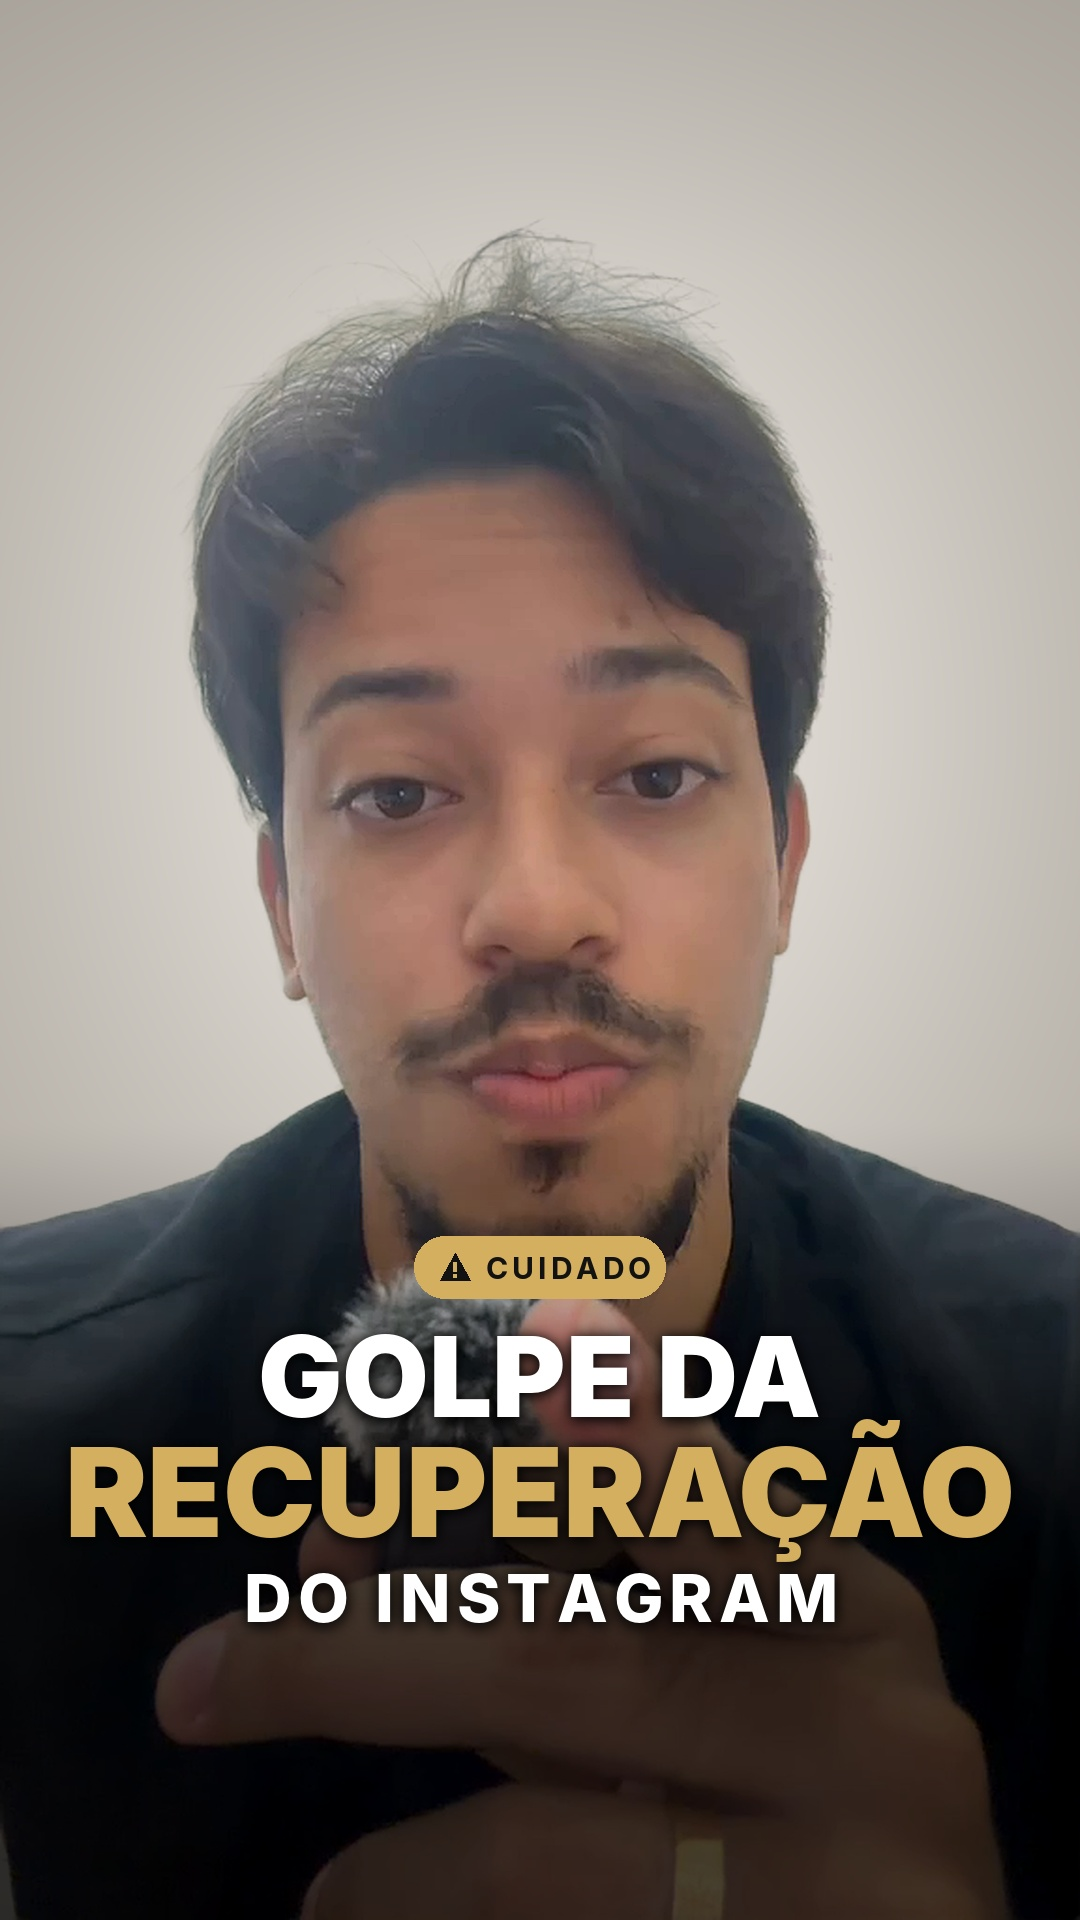
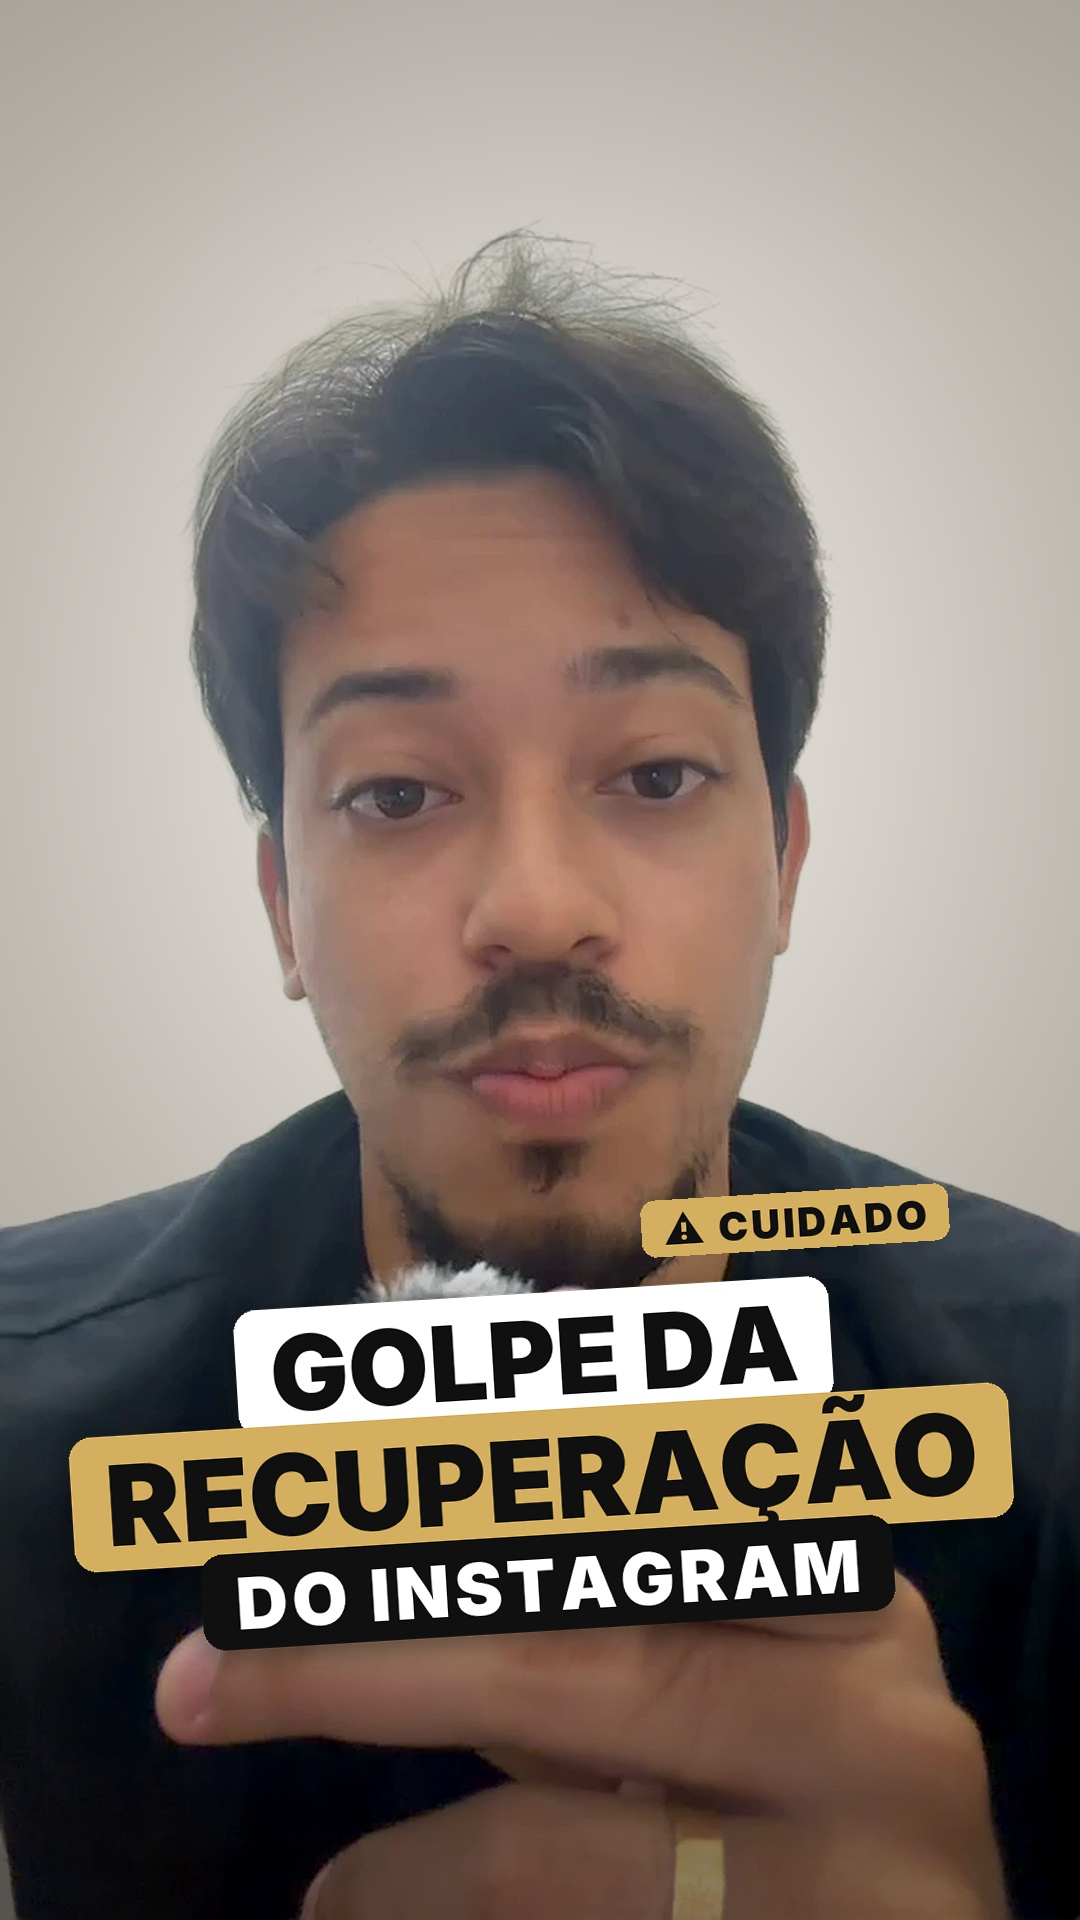
Capa no estilo de capa de Reels (texto em blocos) + versão 3:4 do perfil
Claude-Session: https://claude.ai/code/session_01EBUpDPfBQZoxxSBYNSjZda

Changed region(s): [[0.0, 0.5938, 0.9472, 1.0], [0.0, 0.9688, 0.0306, 1.0]]

diff --git a/edicao_golpe_instagram/cover.py b/edicao_golpe_instagram/cover.py
@@ -1,7 +1,7 @@
 """Reels cover (1080x1920). Key content kept inside the 3:4 profile-grid crop (y 240-1680)."""
 import sys, os, subprocess
 import numpy as np
-from PIL import Image, ImageDraw
+from PIL import Image, ImageDraw, ImageFilter
 
 S = os.path.dirname(os.path.abspath(__file__))
 sys.path.insert(0, S)
@@ -28,41 +28,61 @@ al = grab(f"{S}/matte/{CLIP}-a.mkv", fill.replace("lanczos", "bicubic"), "gray",
 al = np.clip((al - 0.02) / 0.96, 0, 1)
 img = studio_light() * (1 - al) + fg * al
 
-# dark fade from the chest down so the headline reads cleanly
+# light fade at the bottom only (the text boxes carry their own contrast)
 yy = np.arange(H, dtype=np.float32)[:, None, None]
-shade = np.clip((yy - 1120) / 420, 0, 1) ** 1.3 * 0.72
+shade = np.clip((yy - 1300) / 500, 0, 1) ** 1.5 * 0.45
 img = img * (1 - shade)
 canvas = Image.fromarray(np.clip(img, 0, 255).astype(np.uint8)).convert("RGBA")
 
+
+def box_line(text, size, fg, bg, padx=34, pady=16, tracking=0):
+    """Instagram-text-tool style: one rounded box per line."""
+    f = font("Black", size)
+    tw = sum(f.getlength(c) + tracking for c in text) - tracking
+    asc, desc = f.getmetrics()
+    th = asc - 6
+    w, h = int(tw + padx * 2), int(th + pady * 2)
+    im = Image.new("RGBA", (w, h), (0, 0, 0, 0))
+    d = ImageDraw.Draw(im)
+    d.rounded_rectangle((0, 0, w - 1, h - 1), radius=min(22, h // 4), fill=bg + (255,))
+    x = padx
+    for c in text:
+        d.text((x, h / 2 + 2), c, font=f, fill=fg + (255,), anchor="lm")
+        x += f.getlength(c) + tracking
+    return im
+
+
+INKC = (16, 16, 16)
+lines = [box_line("GOLPE DA", 104, INKC, (255, 255, 255)),
+         box_line("RECUPERAÇÃO", 112, INKC, GOLD),
+         box_line("DO INSTAGRAM", 72, WHITE, INKC, tracking=4)]
+gw = max(l.width for l in lines)
+gh = sum(l.height for l in lines) - 10 * (len(lines) - 1)
+group = Image.new("RGBA", (gw + 80, gh + 80), (0, 0, 0, 0))
+y = 40
+for l in lines:
+    group.alpha_composite(l, ((group.width - l.width) // 2, y))
+    y += l.height - 10
+# soft drop shadow, then a slight tilt for energy
+sh = Image.new("RGBA", group.size, (0, 0, 0, 0))
+sh.putalpha(group.split()[3].point(lambda v: int(v * 0.45)))
+sh = sh.filter(ImageFilter.GaussianBlur(14))
+g2 = Image.new("RGBA", group.size, (0, 0, 0, 0))
+g2.alpha_composite(sh, (0, 10))
+g2.alpha_composite(group)
+group = g2.rotate(3.5, resample=Image.BICUBIC, expand=True)
+
+# small alert tag above the block
+tag = box_line("⚠ CUIDADO", 40, INKC, GOLD, padx=22, pady=12, tracking=3)
 layer = Image.new("RGBA", (W, H), (0, 0, 0, 0))
-d = ImageDraw.Draw(layer)
-
-# alert pill
-f = font("Bold", 30)
-label = "CUIDADO"
-tr = 4
-tw = sum(f.getlength(c) + tr for c in label) - tr
-pw, ph = int(tw + 40 + 46), 62
-px, py = (W - pw) // 2, 1236
-d.rounded_rectangle((px, py, px + pw, py + ph), radius=ph // 2, fill=GOLD + (255,))
-# warning triangle icon
-ix, iy = px + 26, py + ph / 2
-d.polygon([(ix, iy + 13), (ix + 15, iy - 14), (ix + 30, iy + 13)], fill=(18, 18, 18, 255))
-d.rectangle((ix + 13.5, iy - 5, ix + 16.5, iy + 4), fill=GOLD + (255,))
-d.rectangle((ix + 13.5, iy + 7, ix + 16.5, iy + 10), fill=GOLD + (255,))
-x = ix + 46
-for c in label:
-    d.text((x, iy + 1), c, font=f, fill=(18, 18, 18, 255), anchor="lm")
-    x += f.getlength(c) + tr
-
-put(layer, text_sprite("GOLPE DA", "Black", 112, WHITE, WHITE, None, True), 540, 1376)
-put(layer, text_sprite("RECUPERAÇÃO", "Black", 124, GOLD, GOLD, None, True), 540, 1492)
-put(layer, text_sprite("DO INSTAGRAM", "ExtraBold", 66, WHITE, WHITE, None, True, 0, 6), 540, 1598)
+cy = 1462
+put(layer, group, 540, cy)
+put(layer, tag.rotate(3.5, resample=Image.BICUBIC, expand=True), 540 + 255, cy - group.height / 2 - 2)
 
 canvas.alpha_composite(layer)
 canvas = canvas.convert("RGB")
 canvas.save(out, quality=95)
 # grid previews: 3:4 profile crop and 1:1 feed crop
 canvas.crop((0, 240, 1080, 1680)).resize((540, 720)).save(out.replace(".jpg", "_grid34.jpg"), quality=90)
-canvas.crop((0, 420, 1080, 1500)).resize((540, 540)).save(out.replace(".jpg", "_1x1.jpg"), quality=90)
+canvas.crop((0, 240, 1080, 1680)).save(out.replace(".jpg", "_perfil_3x4.jpg"), quality=95)
 print("ok", out)
